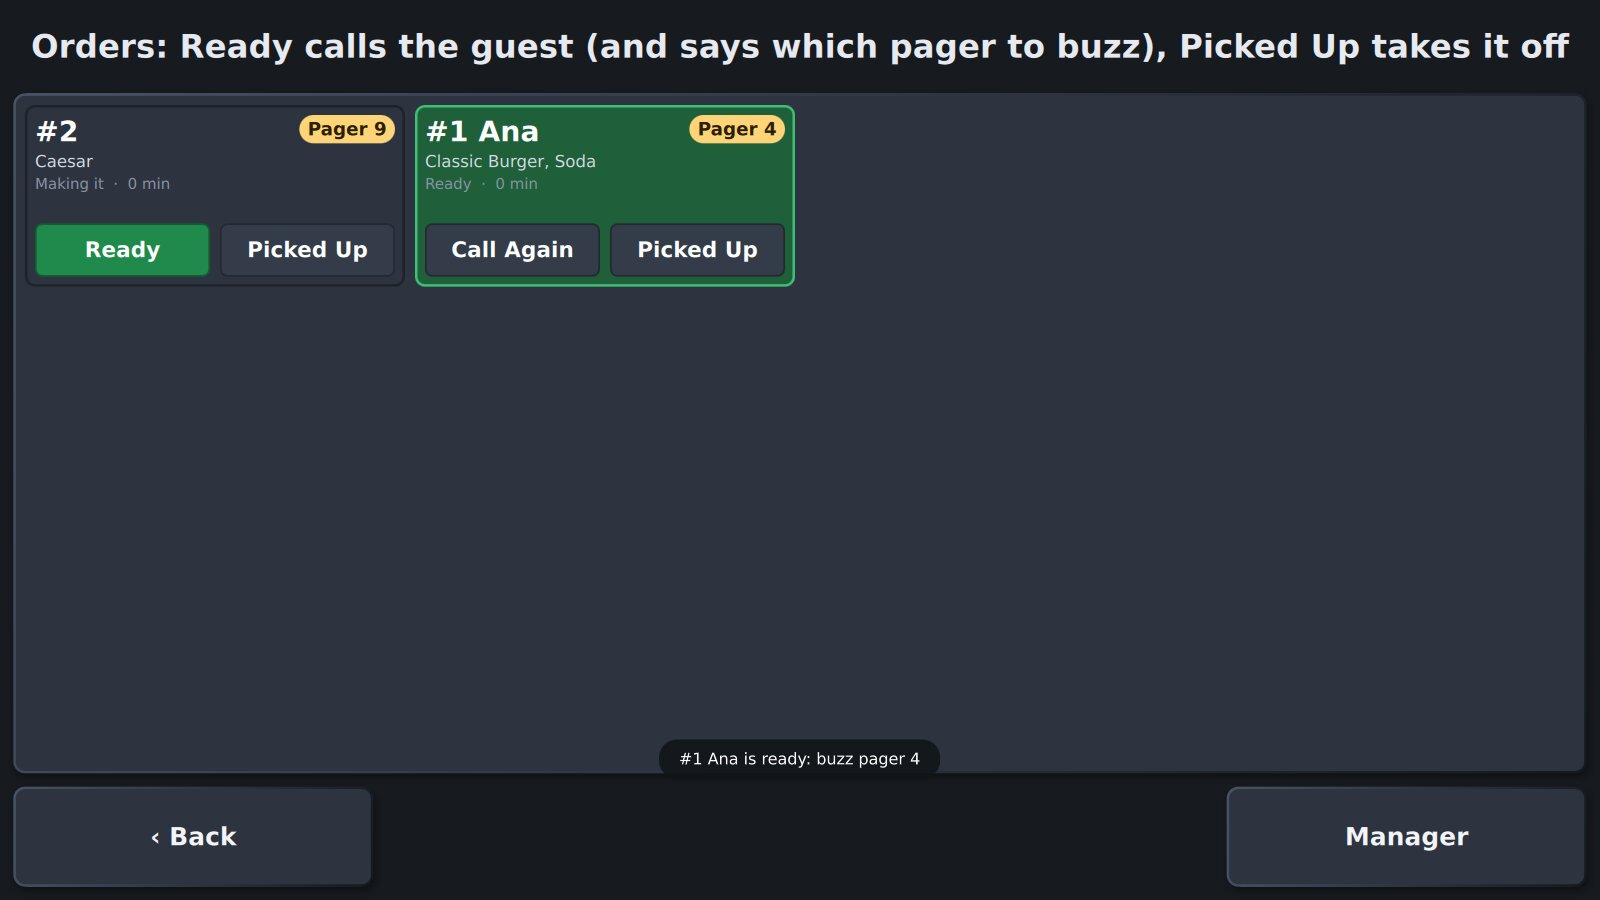
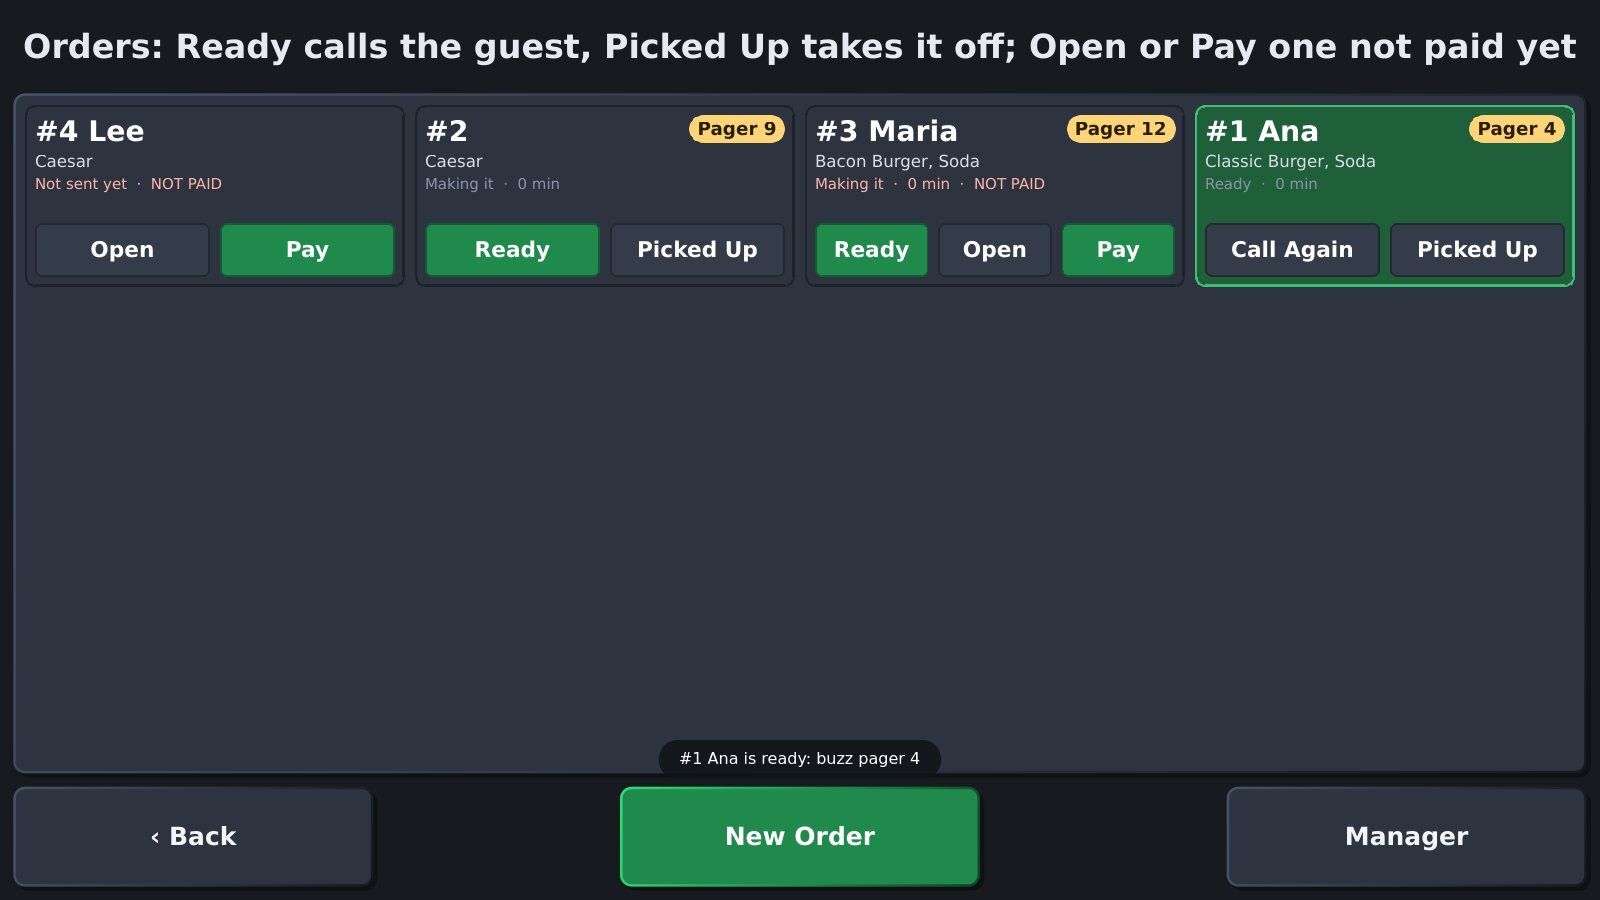
Manual: call-in orders on a food truck, and the Orders page's Open, Pay and New Order
Claude-Session: https://claude.ai/code/session_015JJaarV4sfTKegR57HYFZ8

diff --git a/modern/docs/manual/manual.html b/modern/docs/manual/manual.html
@@ -1001,7 +1001,7 @@ A modifier group called <i>Size</i> (one required) becomes the item's sizes. Pri
 <p class="shot"><img src="shots/m170-truck-order.jpg" width="560" height="315"></p>
 <p class="caption">The order screen as the truck opens it: no login, order #3 for Maria with pager 12, and Orders where restaurants have Tables.</p>
 <ul>
-<li><b>No login:</b> the screen opens on the menu as the built-in <b>Counter</b>, ready to ring up and take payment. After a sale is paid, it is ready for the next one. Idle time doesn't log it out, and an order in progress stays where it is.</li>
+<li><b>No login:</b> the screen opens on the menu as the built-in <b>Counter</b>, ready to ring up and take payment. After a sale is paid, or sent to be paid later, it is ready for the next one. Idle time doesn't log it out, and an order in progress stays where it is.</li>
 <li><b>One computer is enough:</b> the main register is the store's computer and the truck's register. A kitchen screen is optional: set one up as a kitchen screen and it stays on the kitchen display.</li>
 <li><b>Order numbers:</b> every order is called by a number, from <b>#1</b> each business day. Touch <b>+ Name</b> on the check to add a name: the order becomes <i>#27 Maria</i> on the screen, the kitchen screen, the tickets and the receipt. With <b>Food truck: orders need a name</b> (Store Settings → How you serve), Send and Pay wait for a name.</li>
 <li><b>Pagers</b> (the buzzers handed to the guest): touch <b>+ Pager</b> on the check and type the number on the pager you hand them. One pager can't be on two waiting orders.</li>
@@ -1011,13 +1011,24 @@ A modifier group called <i>Size</i> (one required) becomes the item's sizes. Pri
 <p class="caption">+ Pager: the number on the pager handed to the guest.</p>
 
 <h3>Orders: calling the guest</h3>
-<p class="shot"><img src="shots/m172-truck-ready.jpg" width="560" height="315"></p>
-<p><b>Orders</b> (bottom left of the order screen) lists what's been sent to the kitchen and not picked up yet, oldest first: <i>#2 · Pager 9</i>, what's in it, how long, and <i>NOT PAID</i> if it isn't.</p>
+<p class="shot"><img src="shots/m173-truck-orders.jpg" width="560" height="315"></p>
+<p class="caption">Orders: Lee's call-in put away before it was sent, #2 being made, Maria's sent but not paid (Open, Pay), Ana's called.</p>
+<p><b>Orders</b> (bottom left of the order screen) lists every order not picked up yet: <i>#2 · Pager 9</i>, what's in it, how long, and <i>NOT PAID</i> if it isn't. Those not sent to the kitchen yet come first, then those being made (oldest first), then those called.</p>
 <ul>
 <li><b>Ready</b> calls it: the truck's screens say <i>#1 Ana is ready: buzz pager 4</i>. Key that number in on your pager system's transmitter to buzz the guest. The card turns green.</li>
 <li><b>Call Again</b> says it again, for a guest who didn't come.</li>
-<li><b>Picked Up</b> takes it off the list, and the pager is free for the next guest.</li>
+<li><b>Picked Up</b> takes it off the list, and the pager is free for the next guest. It's there once the order is paid.</li>
+<li><b>Open</b> and <b>Pay</b>, on an order not paid yet: Open brings it back to the order screen to change it (the order on the screen waits on Orders meanwhile); Pay brings it to the Pay screen.</li>
 <li>With a kitchen screen, bumping the last of an order calls it by itself.</li>
+</ul>
+<p class="shot"><img src="shots/m172-truck-ready.jpg" width="560" height="315"></p>
+
+<h3>Call-in orders, and paying later</h3>
+<p>A guest calls ahead: ring it in, touch <b>+ Name</b>, and <b>Send</b>. The kitchen gets it and the screen is ready for the next guest at once; the order waits on <b>Orders</b> marked <i>NOT PAID</i>. When they arrive, touch <b>Pay</b> on its card. An order sent before it's paid needs a name, so it can be found when they come (<i>Who is it for?</i>); an order paid at the window doesn't.</p>
+<ul>
+<li><b>They call back to add something:</b> Orders → <b>Open</b>, add it, Send again.</li>
+<li><b>Not ready to send yet</b> (the guest stepped aside to decide, or it's for later): Orders → <b>New Order</b> puts the order on the screen away without sending it. It waits on Orders as <i>Not sent yet</i>; an order set with <b>Check… → Ready Later</b> shows its time (<i>For 1:30 PM</i>) and goes to the kitchen by itself.</li>
+<li><b>A truck that sends first and takes the money at the window:</b> turn off <b>After Send, start a new order</b> (Store Settings → How you serve). Send then stays on the order, for Pay right after.</li>
 </ul>
 
 <h3>Now serving, on the customer display</h3>
